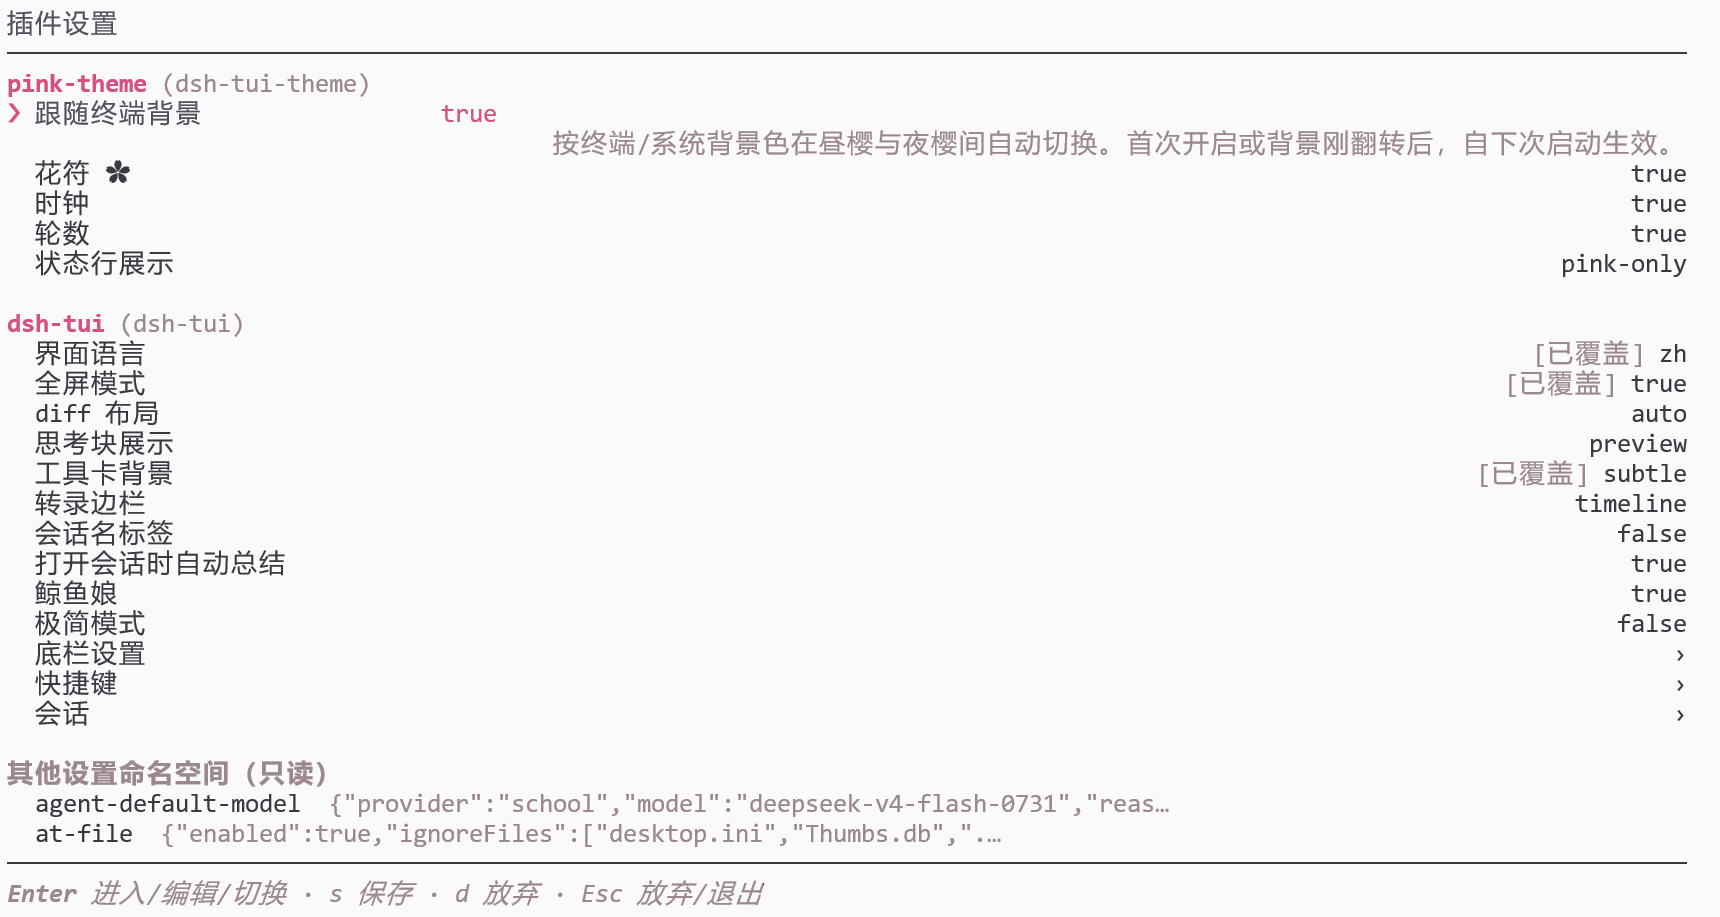
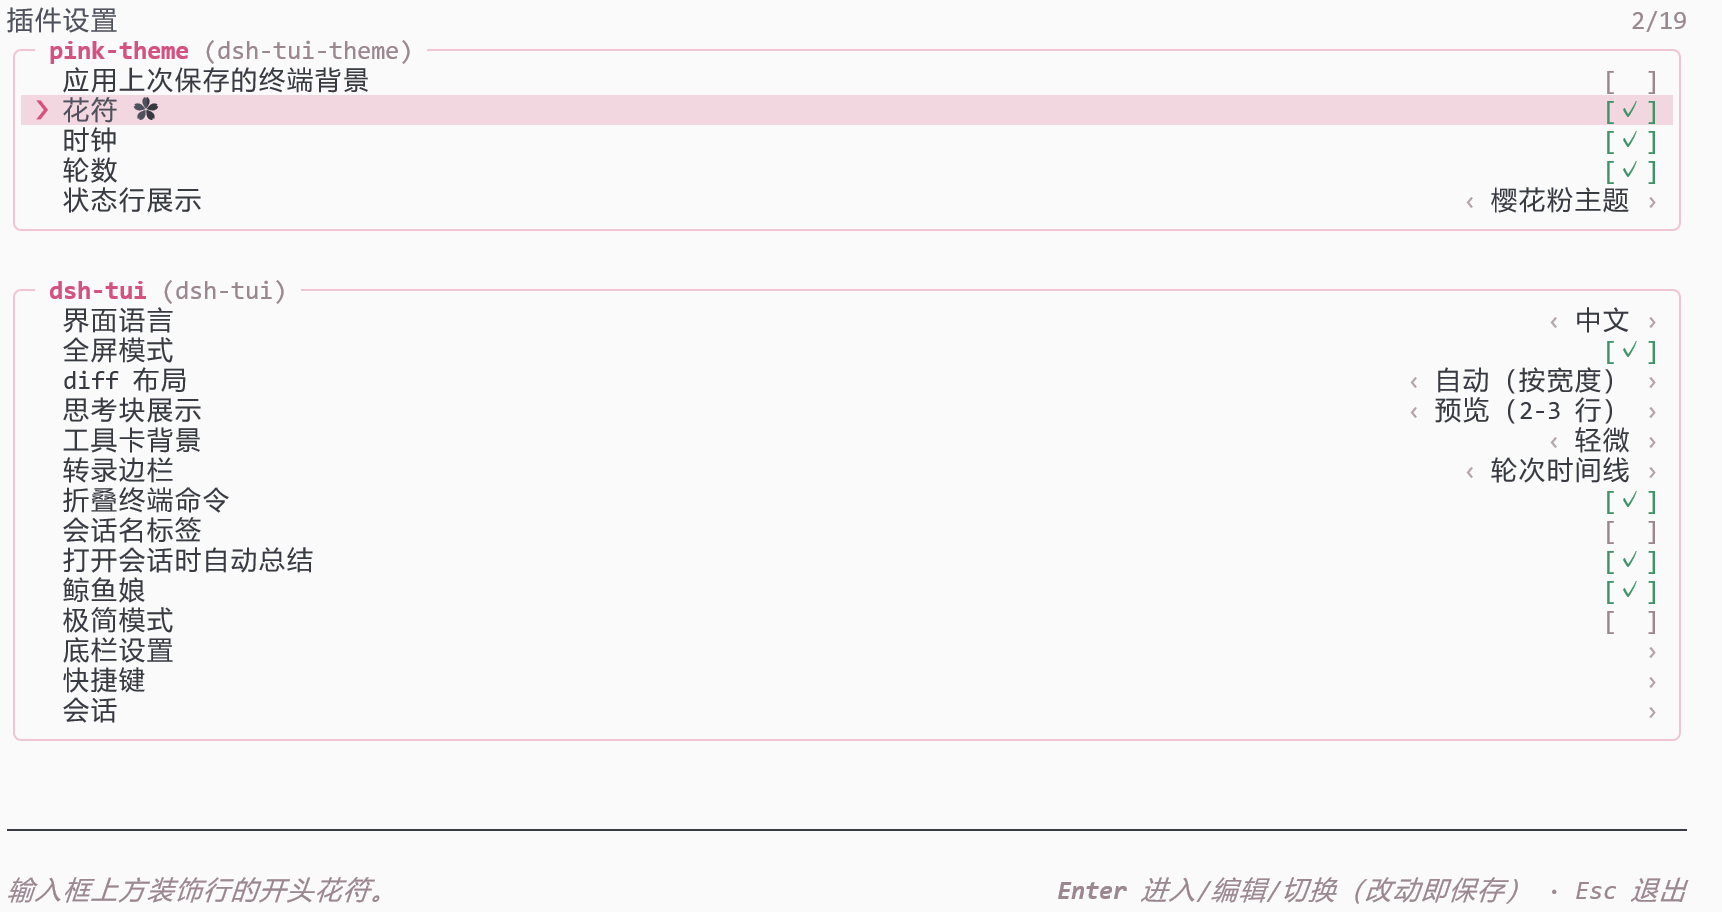
docs: refresh settings screenshot for 0.9.3 and fact-check the README

Changed region(s): [[0.0, 0.0, 0.986, 0.7982], [0.0, 0.8289, 0.986, 1.0], [0.832, 0.3377, 0.986, 0.7061]]

diff --git a/README.md b/README.md
@@ -15,36 +15,34 @@
 
 | 主题 | 基底 | 风格 |
 | --- | --- | --- |
-| `pink-night` 夜樱 | dark | 深梅紫底、玫瑰粉强调、粉鲸鱼吉祥物，95 键全覆盖 |
+| `pink-night` 夜樱 | dark | 暗梅底、玫瑰粉强调，95 键全覆盖 |
 | `pink-day` 昼樱 | light | 象牙粉底、墨梅正文、柔和玫瑰强调（已通过宿主浅色身份判定） |
 | `pink-ansi` 樱·ANSI | dark-ansi | 16 色 ANSI 回退，品牌色映射到 magenta 系 |
 
 三套均通过 dsh-TUI 官方校验器（零警告、全键覆盖）与 WCAG 对比度检查（正文 ≥ 11:1）。
 
-> 小知识：`pink-day` 的 `text` 写成 `rgb(61,43,51)` 而非 hex——宿主按 `text` 墨色亮度自动判定主题深浅，且只认 `rgb()` 格式。
-
 ## 截图
 
-实测于 dsh-tui 0.9.2：
+主题主界面截图实测于 dsh-tui 0.9.2；0.9.3 的 `/settings` 卡片界面见下图：
 
 | 昼樱 `pink-day` | 夜樱 `pink-night` |
 | :---: | :---: |
 | ![pink-day 主题界面](docs/screenshots/pink-day.png) | ![pink-night 主题界面](docs/screenshots/pink-night.png) |
 
-`/settings` 里的 pink-theme 区块（已缓存背景 / 花符 / 时钟 / 轮数，保存即时生效）：
+`/settings` 里的 pink-theme 区块（终端背景 / 花符 / 时钟 / 轮数 / 状态行展示，保存即时生效）：
 
 ![pink-theme 设置区块](docs/screenshots/settings.png)
 
-> 图中底栏上下文进度条的蓝色分段与 ❯ 提示符是宿主硬编码的，见下文[宿主限制](#受宿主限制目前无法定制的部分)。
+> 图中 ❯ 提示符与链接是宿主硬编码的，见下文[宿主限制](#受宿主限制目前无法定制的部分)。
 
 ## 缓存背景跟随
 
-`dsh-TUI 0.9.2` 没有向插件公开安全的终端查询接缝。为了不与宿主的 stdin/raw-mode 生命周期竞争，插件不会直接发送 OSC 11，也不会读取终端输入。
+`dsh-TUI` 没有向插件公开安全的终端查询接缝。为了不与宿主的 stdin/raw-mode 生命周期竞争，插件不会直接发送 OSC 11，也不会读取终端输入。
 
-“使用已缓存的终端背景”开启后：
+“应用上次保存的终端背景”开启后：
 
 - 启动时读取 `~/.dsh-tui/theme-follow.json` 中已有的 `light` 结果，亮 → `pink-day`，暗 → `pink-night`，并将选择写入 `~/.dsh-tui/theme.json`；
-- 不存在缓存时完全保留当前 `/theme` 选择；0.4.0 不会自行创建或刷新缓存；
+- 不存在缓存时完全保留当前 `/theme` 选择；插件不会自行创建或刷新缓存；
 - 默认关闭。该缓存可由之前的兼容版本留下；未来 dsh-TUI 提供宿主拥有的查询接缝后，插件才会安全地恢复刷新能力；
 - 开启后该缓存会在启动时覆盖 `/theme` 的持久选择；关闭即可恢复手动选择；
 - `DSH_TUI_THEME` 环境变量仍然最优先（宿主行为，插件不覆盖环境变量）。
@@ -59,7 +57,7 @@ dsh plugin --profile dsh-tui add -w dsh-tui-theme@latest
 cd /path/to/dsh-tui-theme
 npm run build
 npm pack
-dsh plugin --profile dsh-tui add -w ./dsh-tui-theme-0.4.0.tgz
+dsh plugin --profile dsh-tui add -w ./dsh-tui-theme-<版本号>.tgz
 ```
 
 不要以本地源码目录作为依赖安装：其开发 `node_modules` 可能与 dsh-TUI 宿主解析出不同的 Cordis/DSH framework instance，造成插件无法注册服务。
@@ -71,7 +69,7 @@ dsh plugin --profile dsh-tui add -w ./dsh-tui-theme-0.4.0.tgz
 dsh plugin --profile dsh-tui add -w dsh-tui-theme@latest
 ```
 
-插件只在主题文件缺失时复制，绝不覆盖你编辑过的 `~/.dsh-tui/themes/pink-*.json`。升级若需要采用包内的新主题资产，请先备份自己的修改，再删除对应主题文件并重启 dsh-TUI 让插件重装。
+插件只在主题文件缺失时复制，绝不覆盖你编辑过的 `~/.dsh-tui/themes/pink-*.json`。唯一的例外是已损坏的目标文件（无法解析为 JSON，例如安装中途中断留下的残文件）：插件会把它改名为 `<文件名>.corrupt-<时间戳>` 保留现场，再重新安装内置副本，并记录一条警告。升级若需要采用包内的新主题资产，请先备份自己的修改，再删除对应主题文件并重启 dsh-TUI 让插件重装。
 
 重启 dsh-TUI 后插件自动把三套主题复制进 `~/.dsh-tui/themes/`（**仅缺失时复制，绝不覆盖你已有的同名文件**），然后：
 
@@ -89,7 +87,7 @@ dsh plugin --profile dsh-tui add -w dsh-tui-theme@latest
 
 | 字段 | 默认 | 说明 |
 | --- | --- | --- |
-| `followSystem` | `false` | 启动时应用已缓存的终端背景结果（昼樱 ↔ 夜樱）；0.4.0 不刷新缓存 |
+| `followSystem` | `false` | 启动时应用上次保存的终端背景结果（昼樱 ↔ 夜樱）；插件不刷新缓存 |
 | `showGlyph` | `true` | 花符：开 = ✿ 开头，关 = 不显示 |
 | `showClock` | `true` | 显示 HH:MM 时钟 |
 | `showTurns` | `true` | 显示当前会话轮数（`N✦`，自本次启动起计） |
@@ -99,7 +97,7 @@ dsh plugin --profile dsh-tui add -w dsh-tui-theme@latest
 
 ## 受宿主限制、目前无法定制的部分
 
-以下元素的颜色/形态由 dsh-TUI 宿主**硬编码**，不读取任何主题键，主题 JSON 与插件接缝都覆盖不到（dsh-TUI 0.9.2 实测）：
+以下元素的颜色/形态由 dsh-TUI 宿主**硬编码**，不读取任何主题键，主题 JSON 与插件接缝都覆盖不到（dsh-TUI 0.9.3 实测）：
 
 | 元素 | 现状 | 位置（宿主源码） |
 | --- | --- | --- |
@@ -108,6 +106,7 @@ dsh plugin --profile dsh-tui add -w dsh-tui-theme@latest
 | 进度条空余段配色 | 宿主按 `themeName === 'light'` **字符串比较**取浅色配色——自定义浅色主题（如 pink-day）不等于 `'light'`，会拿到深色空余段，在浅色终端上偏深 | `screens/StatusLine.tsx` |
 | 状态行文字颜色 | 插件状态行（tuiStatus）由宿主统一以**无色 + 终端 dim** 渲染，插件无法指定颜色（✿ 行因此继承终端默认前景色） | `screens/Chat.tsx` |
 | 输入框块状光标 | 宿主挂载期间隐藏终端原生光标（`?25l`），输入框光标由应用以**反色字符**自绘（`<Text inverse>`），颜色即主题 text/background 的反色——OSC 12 光标色只能染到不可见的原生光标，插件无法给输入光标上色（辅助功能模式 `CLAUDE_CODE_ACCESSIBILITY=1` 下原生光标才可见） | `ink/components/App.tsx`、`components/PromptInput.tsx` |
+| 正文链接 | OSC 8 超链接默认**写死的 ANSI 蓝**（`chalk.blue`）；注释说明 wrap-ansi 无法跨 OSC 8 保留主题 RGB 色，故链接色不读主题键 | `cc/hyperlink.ts` |
 | 主界面组件与布局 | 顶栏像素鲸鱼、工具卡、输入框等宿主组件不可被插件替换或改布局——平台规则（内建优先，无组件替换接缝）；主题能碰的只有颜色层 | 宿主架构约定 |
 
 这些都需要上游 dsh-TUI 修改（例如：把充能色/进度条分段色接入主题键、空余段判断改用 `isLightThemeActive()`、给输入光标增加主题键）。上游修复前，任何社区主题包都受同样约束。
@@ -136,11 +135,11 @@ DSH_TUI_SOURCE_ROOT=/path/to/dsh-TUI-source \
 npm run verify:host
 ```
 
-`verify:host` 必须显式指向待兼容的宿主 adapter 与源码；缺少其中任一项会失败，避免把跳过误报为验证成功。
+`verify:host` 必须显式指向同一版本的宿主 adapter 与源码；缺少其中任一项会失败，避免把跳过误报为验证成功。日常开发会验证两者版本一致但不固定版本号；需要锁定一次发布基线时，额外设置 `DSH_TUI_EXPECTED_VERSION=0.9.3`。
 
 主题调色板改起来最直接：编辑 `themes/*.json` 后重新 `npm run verify`，再删掉 `~/.dsh-tui/themes/` 下对应文件让插件重装。
 
 ## 兼容性
 
-- **dsh-TUI 版本下限：0.8.8**（状态行与设置面板；0.9.2 实测）。更旧的宿主缺 `dsh-tui-extensions` 扩展面时，插件自动降级为“仅安装三套主题”，不报错。
+- **dsh-TUI 版本下限：0.8.8**（状态行与设置面板；0.9.3 实测）。更旧的宿主缺 `dsh-tui-extensions` 扩展面时，插件自动降级为“仅安装三套主题”，不报错。
 - Node `^22.19 || >=24`，纯 ESM，MIT。
